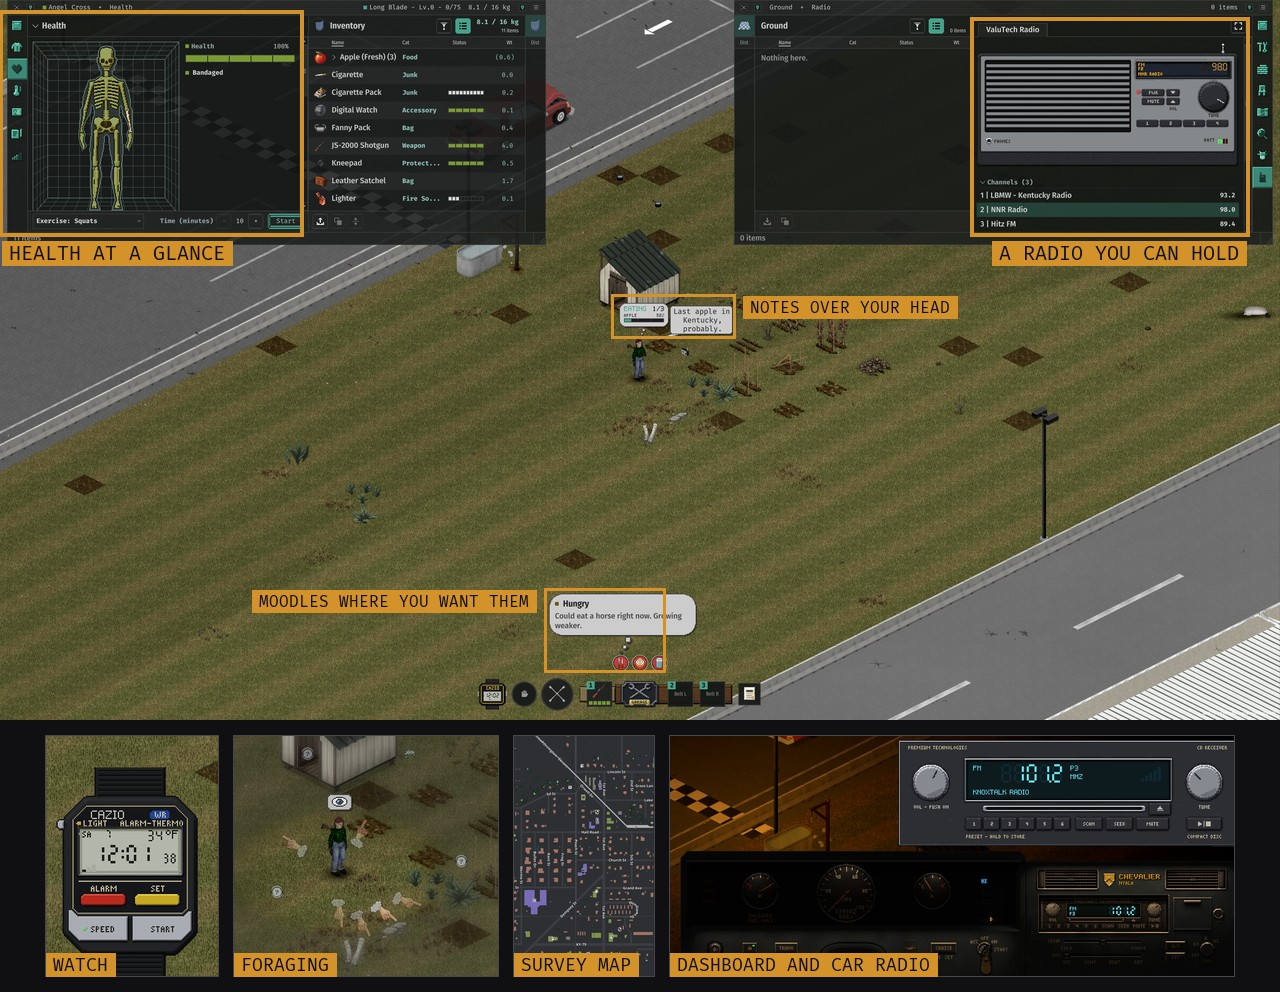
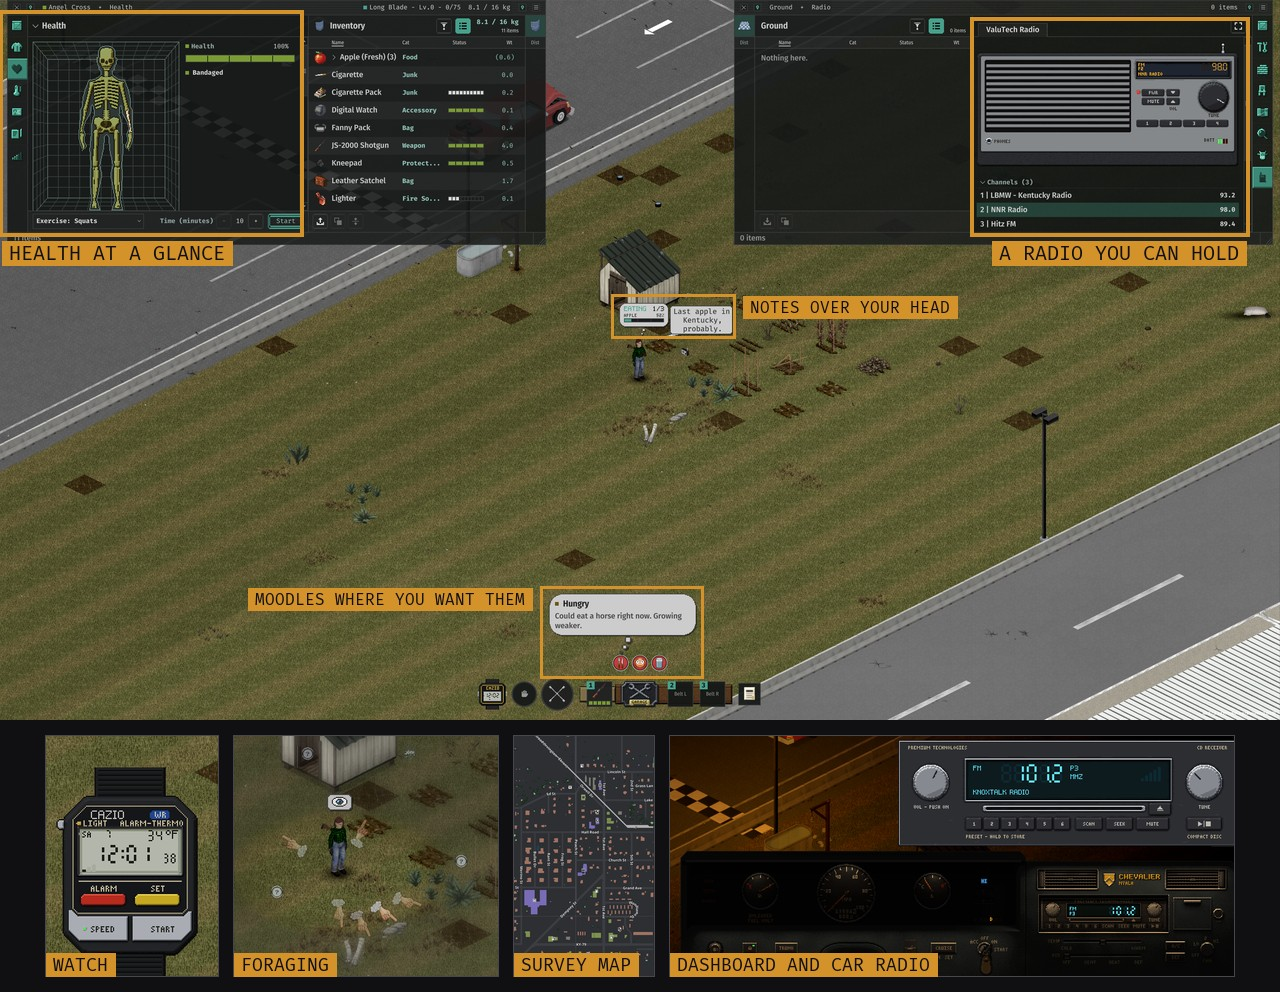
Description pictures 2 and 3: the moodle box holds the whole balloon, the row box stops before the glance card (the director, Nov 18)

Changed region(s): [[0.1875, 0.5938, 0.5625, 0.6875]]

diff --git a/ZeDUI/workshop/showcase/make_showcase.py b/ZeDUI/workshop/showcase/make_showcase.py
@@ -154,7 +154,7 @@ def slot2():
     health = scaled((8, 40, 900, 700), s)
     radio = scaled((2920, 60, 3740, 700), s)
     note = scaled((1840, 890, 2200, 1010), s)
-    moodle = scaled((1640, 1770, 1990, 2010), s)
+    moodle = scaled((1628, 1766, 2104, 2028), s)
     outline(d, health)
     outline(d, radio)
     outline(d, note, 3)
@@ -188,8 +188,8 @@ def slot3():
     canvas = Image.new("RGB", (W, H), BG)
     canvas.paste(top, (0, 0))
     d = ImageDraw.Draw(canvas)
-    row = scaled((14, 150, 790, 186), s)
-    card = scaled((756, 156, 1064, 344), s)
+    row = scaled((14, 150, 738, 186), s)
+    card = scaled((750, 154, 1066, 346), s)
     prompts = scaled((14, 696, 700, 736), s)
     outline(d, row, 3)
     outline(d, card, 3)
